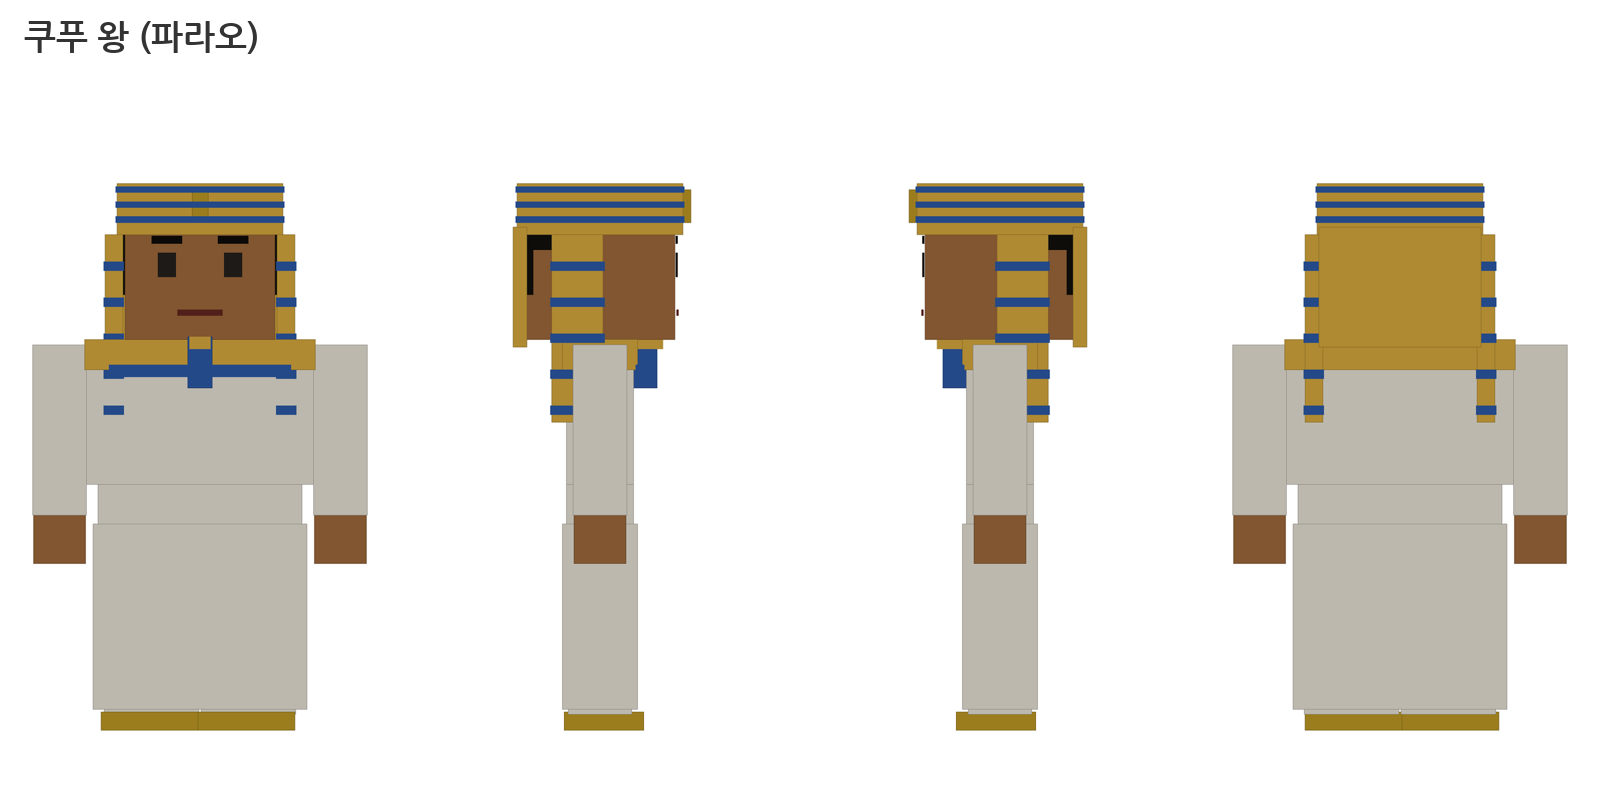
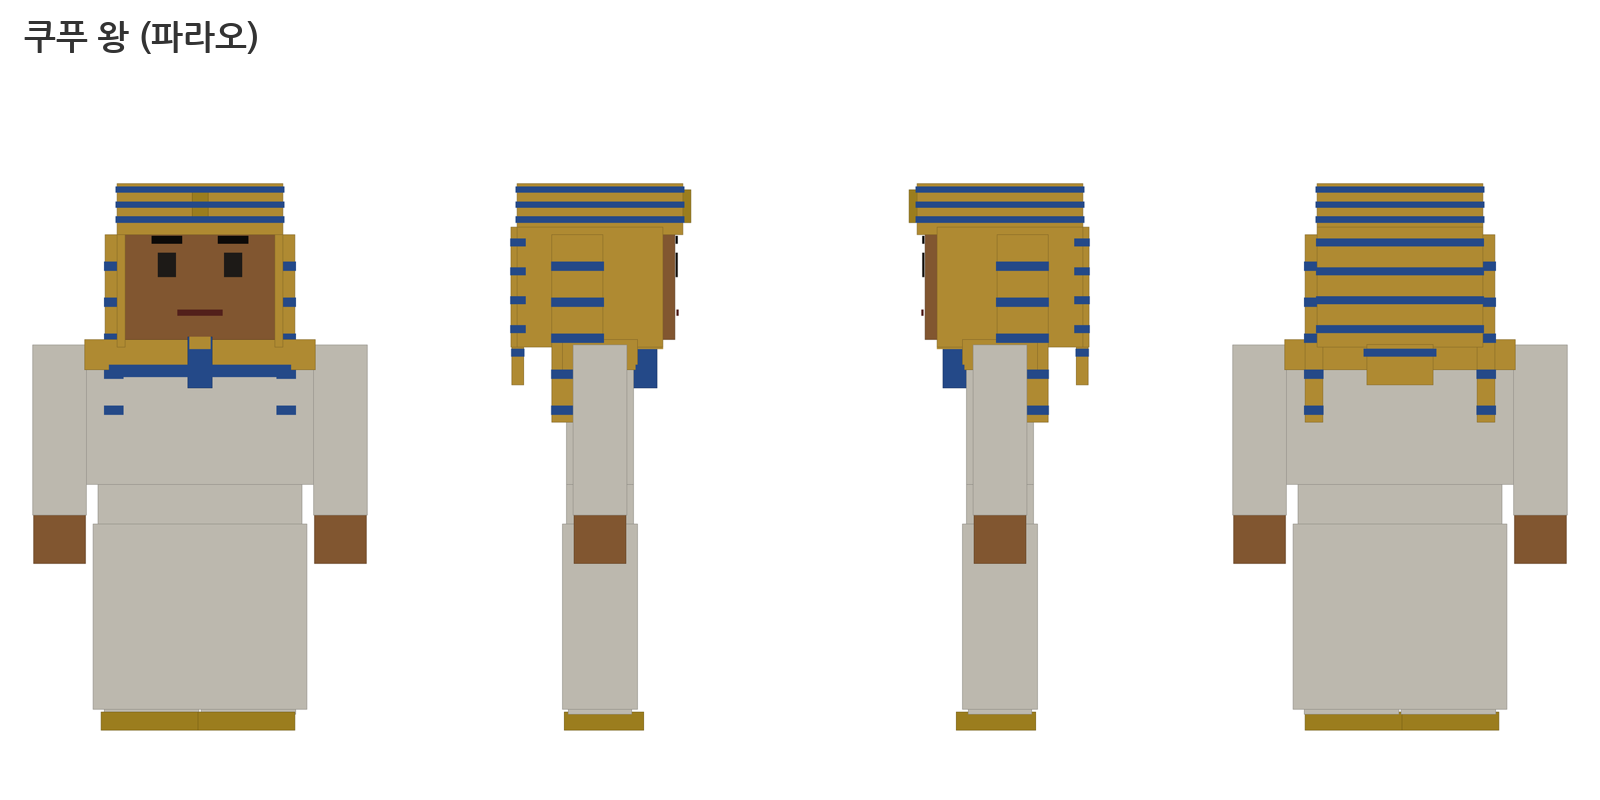
파라오 머리수건 뒷모습: 뒤 천에 줄무늬·묶은 꼬리, 옆머리 전체를 천으로 감쌈(머리 옆 살이 비치던 것), 날개 줄무늬가 튀어나오지 않게
Claude-Session: https://claude.ai/code/session_01HCMiusSqCGhLJD35gTQhF1

diff --git a/블록3D.py b/블록3D.py
@@ -333,12 +333,19 @@ def person(c, pos, face=0.0, pose=None, scale=1.0):
         B((-hwid / 2 - 0.08, t - hs * 0.3, -hs / 2 - 0.08), (hwid + 0.16, hs * 0.34, hs + 0.16), g1)
         for k in range(3):   # 윗면 줄무늬
             B((-hwid / 2 - 0.09, t - hs * 0.22 + k * hs * 0.1, -hs / 2 - 0.09), (hwid + 0.18, hs * 0.04, hs + 0.18), g2, edge=False)
-        for sg in (-1, 1):   # 어깨까지 내려오는 양쪽 날개
+        for sg in (-1, 1):   # 머리 옆 뒤쪽을 감싸는 천 (뒤에서 비스듬히 봐도 머리 옆 살이 비치지 않게, 사용자 지적 2026-11-06)
+            B((sg * hwid / 2 - (0.08 if sg < 0 else 0), hy - hs * 0.05, -hs / 2 - 0.08), (0.08, t - hy - hs * 0.25 + hs * 0.05, hs * 0.92 + 0.08), g1)   # 얼굴 앞면만 남기고 옆머리 전체
+        for sg in (-1, 1):   # 어깨까지 내려오는 양쪽 날개 (줄무늬는 날개 면에 딱 붙게 — 튀어나온 조각 없이)
             fx = sg * hwid / 2 - (0.18 if sg < 0 else 0) + (0.02 if sg > 0 else -0.02)
             B((fx, hy - hs * 0.55, -hs * 0.32), (0.18, hs * 1.25, hs * 0.34), g1)
             for k in range(5):
-                B((fx - 0.01, hy - hs * 0.5 + k * hs * 0.24, -hs * 0.33), (0.2, hs * 0.06, hs * 0.36), g2, edge=False)
-        B((-hwid / 2 - 0.06, t - hs * 1.05, -hs / 2 - 0.12), (hwid + 0.12, hs * 0.8, 0.14), g1)   # 뒤로 늘어진 천
+                B((fx - 0.005, hy - hs * 0.5 + k * hs * 0.24, -hs * 0.325), (0.19, hs * 0.06, hs * 0.35), g2, edge=False)
+        bk_y, bk_h = t - hs * 1.05, hs * 0.8   # 뒤로 늘어진 천 + 가로 줄무늬 (앞·옆과 같은 무늬)
+        B((-hwid / 2 - 0.08, bk_y, -hs / 2 - 0.14), (hwid + 0.16, bk_h, 0.14), g1)
+        for k in range(4):
+            B((-hwid / 2 - 0.085, bk_y + bk_h * (0.12 + k * 0.24), -hs / 2 - 0.145), (hwid + 0.17, hs * 0.05, 0.15), g2, edge=False)
+        B((-hwid * 0.22, bk_y - hs * 0.25, -hs / 2 - 0.13), (hwid * 0.44, hs * 0.27, 0.12), g1)   # 아래로 모아 묶은 꼬리
+        B((-hwid * 0.24, bk_y - hs * 0.06, -hs / 2 - 0.135), (hwid * 0.48, hs * 0.05, 0.13), g2, edge=False)
         B((-0.08, t - hs * 0.22, hs / 2 + 0.06), (0.16, hs * 0.22, 0.1), "#c9a227")               # 코브라
         B((-hs * 0.08, hy - hs * 0.32, hs * 0.18), (hs * 0.16, hs * 0.34, hs * 0.2), "#2f5fb0")    # 가짜 턱수염
         B((-hs * 0.07, hy - hs * 0.06, hs * 0.2), (hs * 0.14, hs * 0.08, hs * 0.22), "#e3b341", edge=False)
